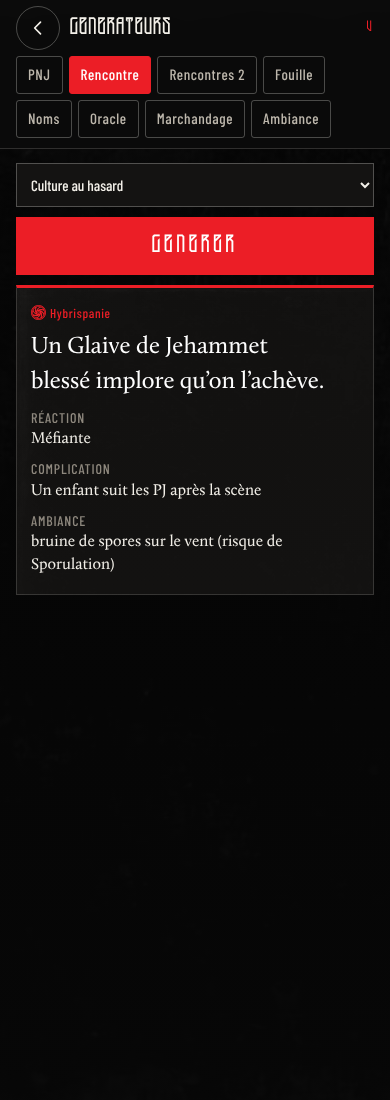
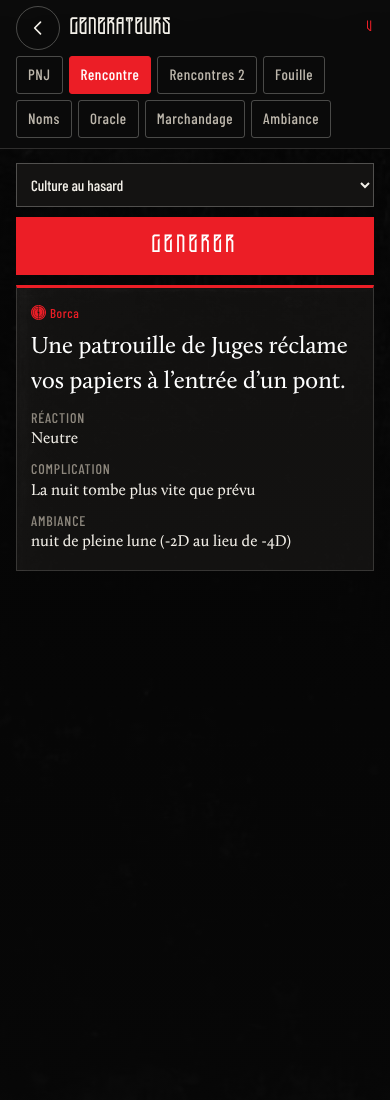
Générateurs : rencontres non conformes aux sources corrigées
Claude-Session: https://claude.ai/code/session_01LtkstC13MjDizu5DuuNSSV

Changed region(s): [[0.0615, 0.2782, 0.8923, 0.4018], [0.0615, 0.4327, 0.7385, 0.5255]]

diff --git a/sw.js b/sw.js
@@ -1,5 +1,5 @@
 // Codex du MJ – cache hors ligne. La version change à chaque mise à jour.
-const V="codex-202610272115";
+const V="codex-202610272120";
 const FILES=["./", "app.js", "assets/BG_BLACK_1.jpg", "assets/BG_BLACK_12.jpg", "assets/Calluna-Regular.otf", "assets/DEGENESIS-v0.1.ttf", "assets/camp/Benesato-armoiries.jpg", "assets/camp/abacus.jpg", "assets/camp/arrivee-lucatore.jpg", "assets/camp/attila.jpg", "assets/camp/avantposte-helvetique.jpg", "assets/camp/ba-atlantique.jpg", "assets/camp/ba-brest-maison.jpg", "assets/camp/ba-brest-port.jpg", "assets/camp/ba-brest-rue.jpg", "assets/camp/ba-britannia.jpg", "assets/camp/ba-carnac.jpg", "assets/camp/ba-eau-profonde.jpg", "assets/camp/ba-ganaress.jpg", "assets/camp/ba-gantelet.jpg", "assets/camp/ba-jour-ganaress.jpg", "assets/camp/ba-mont-saint-michel.jpg", "assets/camp/ba-morlaix.jpg", "assets/camp/ba-nantes.jpg", "assets/camp/ba-ouessant.jpg", "assets/camp/ba-parel.jpg", "assets/camp/ba-profondeurs.jpg", "assets/camp/ba-raffinerie.jpg", "assets/camp/ba-rennes.jpg", "assets/camp/ba-terre-pecheurs.jpg", "assets/camp/bargeist-vikal.jpg", "assets/camp/camp-romano.jpg", "assets/camp/chrono.jpg", "assets/camp/cloitre.jpg", "assets/camp/ennio-gala.jpg", "assets/camp/foret.jpg", "assets/camp/jdm-comptoir.jpg", "assets/camp/jdm-cour-argent.jpg", "assets/camp/jdm-fauxbourdons.jpg", "assets/camp/jdm-ferrallies.jpg", "assets/camp/jdm-marais.jpg", "assets/camp/jdm-palais-hamza.jpg", "assets/camp/jdm-port-lagagne.jpg", "assets/camp/jdm-route-resistance.jpg", "assets/camp/jdm-saint-chenil.jpg", "assets/camp/jdm-terres-putain.jpg", "assets/camp/jdm-tours.jpg", "assets/camp/lucatore.jpg", "assets/camp/moulin.jpg", "assets/camp/neva.jpg", "assets/camp/papachico-neva.jpg", "assets/camp/scirocco.jpg", "assets/camp/sigle-bargeist.jpg", "assets/camp/t-luz.png", "assets/camp/t-octet.png", "assets/camp/t-pavel.png", "assets/camp/t-vex.png", "assets/camp/tomlenoir.jpg", "assets/camp/vikal.jpg", "assets/dice/d1.png", "assets/dice/d2.png", "assets/dice/d3.png", "assets/dice/d4.png", "assets/dice/d5.png", "assets/dice/d6.png", "assets/fonts/barlow-condensed-latin-500-normal.woff2", "assets/fonts/barlow-condensed-latin-600-normal.woff2", "assets/fonts/barlow-condensed-latin-700-normal.woff2", "assets/logo-clean.svg", "assets/lore/b-amsumo.jpg", "assets/lore/b-discordance.jpg", "assets/lore/b-dormeur.jpg", "assets/lore/b-ganaress.jpg", "assets/lore/b-leviathan.jpg", "assets/lore/b-leviathaniques.jpg", "assets/lore/b-mammouths.jpg", "assets/lore/b-murnakir.jpg", "assets/lore/b-sporuleux.jpg", "assets/lore/b-tsar.jpg", "assets/lore/c-anabaptistes.jpg", "assets/lore/c-anubiens.jpg", "assets/lore/c-apocalyptiques.jpg", "assets/lore/c-blafards.jpg", "assets/lore/c-chroniqueurs.jpg", "assets/lore/c-clanistes.jpg", "assets/lore/c-ferrailleurs.jpg", "assets/lore/c-fleaux.jpg", "assets/lore/c-hellvetiques.jpg", "assets/lore/c-jehammetans.jpg", "assets/lore/c-juges.jpg", "assets/lore/c-neolibyens.jpg", "assets/lore/c-spitaliers.jpg", "assets/lore/k-adriani.jpg", "assets/lore/k-bordenoir.jpg", "assets/lore/k-britoni.jpg", "assets/lore/k-cafards.jpg", "assets/lore/k-corredores.jpg", "assets/lore/k-enemoi.jpg", "assets/lore/k-exaltiens.jpg", "assets/lore/k-flagellants.jpg", "assets/lore/k-garganti.jpg", "assets/lore/k-massai.jpg", "assets/lore/k-matadors.jpg", "assets/lore/k-pandoriens.jpg", "assets/lore/k-phosphorites.jpg", "assets/lore/k-pneumanciens.jpg", "assets/lore/k-resistance.jpg", "assets/lore/k-romano.jpg", "assets/lore/k-shabath.jpg", "assets/lore/k-storski.jpg", "assets/lore/k-stukov.jpg", "assets/lore/k-touloni.jpg", "assets/lore/k-usudi.jpg", "assets/lore/k-voivodules.jpg", "assets/lore/l-bassham.jpg", "assets/lore/l-bayonne.jpg", "assets/lore/l-black-atlantic.jpg", "assets/lore/l-brest.jpg", "assets/lore/l-chapelle-vicarent.jpg", "assets/lore/l-corpse.jpg", "assets/lore/l-entrepots.jpg", "assets/lore/l-lucatore.jpg", "assets/lore/l-mediterranee.jpg", "assets/lore/l-morlaix.jpg", "assets/lore/l-msm.jpg", "assets/lore/l-nantes.jpg", "assets/lore/l-nullpellia.jpg", "assets/lore/l-ouest-rhone.jpg", "assets/lore/l-plateformes.jpg", "assets/lore/l-port-lagagne.jpg", "assets/lore/l-pressoir.jpg", "assets/lore/l-rennes.jpg", "assets/lore/l-rhone.jpg", "assets/lore/l-romano-camp.jpg", "assets/lore/l-saint-brieuc.jpg", "assets/lore/l-saint-chenil.jpg", "assets/lore/l-stukov.jpg", "assets/lore/l-terres-putain.jpg", "assets/lore/l-toulon.jpg", "assets/lore/l-unya.jpg", "assets/lore/m-caire.jpg", "assets/lore/m-eshaton.jpg", "assets/lore/m-fractale.jpg", "assets/lore/m-spores.jpg", "assets/lore/m-ziggurat.jpg", "assets/lore/p-biokinesie-hero.jpg", "assets/lore/p-biokinesie.jpg", "assets/lore/p-dushani-hero.jpg", "assets/lore/p-dushani.jpg", "assets/lore/p-homo.jpg", "assets/lore/p-pheromanciens-hero.jpg", "assets/lore/p-pheromanciens.jpg", "assets/lore/p-pregnostiques-hero.jpg", "assets/lore/p-pregnostiques.jpg", "assets/lore/p-psychokinesie-hero.jpg", "assets/lore/p-psychokinesie.jpg", "assets/lore/p-psychovores.jpg", "assets/lore/p-sepsie.jpg", "assets/lore/r-balkhans.jpg", "assets/lore/r-borca.jpg", "assets/lore/r-cathedrale.jpg", "assets/lore/r-franka.jpg", "assets/lore/r-hellvetica.jpg", "assets/lore/r-hybrispanie.jpg", "assets/lore/r-justitienne.jpg", "assets/lore/r-pollen.jpg", "assets/lore/r-purgare.jpg", "assets/lore/r-tripol.jpg", "assets/lore/s-biokinese.png", "assets/lore/s-dushan.png", "assets/lore/s-pheromancie.png", "assets/lore/s-pregnosticisme.png", "assets/lore/s-psychokinese.png", "assets/lore/x-argyre-hero.jpg", "assets/lore/x-argyre.jpg", "assets/lore/x-aries.jpg", "assets/lore/x-aspera.jpg", "assets/lore/x-chernobog.jpg", "assets/lore/x-gusev.jpg", "assets/lore/x-triglav.jpg", "assets/pnj/ba-ampere.jpg", "assets/pnj/ba-arnika.jpg", "assets/pnj/ba-balor.jpg", "assets/pnj/ba-barringer.jpg", "assets/pnj/ba-bascule.jpg", "assets/pnj/ba-docteur-vega.jpg", "assets/pnj/ba-eris.jpg", "assets/pnj/ba-garlene.jpg", "assets/pnj/ba-helios.jpg", "assets/pnj/ba-ifrit.jpg", "assets/pnj/ba-imbali.jpg", "assets/pnj/ba-malinesse.jpg", "assets/pnj/ba-oppolus.jpg", "assets/pnj/ba-parel.jpg", "assets/pnj/ba-soufiane.jpg", "assets/pnj/ba-vicarent.jpg", "assets/pnj/ets-abacus.jpg", "assets/pnj/ets-barghest.jpg", "assets/pnj/ets-carmino-ferro.jpg", "assets/pnj/ets-ennio-benesato.jpg", "assets/pnj/ets-fernex-le-vigilant.jpg", "assets/pnj/ets-gala-lombardi.jpg", "assets/pnj/ets-leurre-5.jpg", "assets/pnj/ets-lucio-bastardo.jpg", "assets/pnj/ets-neva-l-emissaire-de-fer.jpg", "assets/pnj/ets-papa-chicco.jpg", "assets/pnj/ets-scirocco-le-pecheur.jpg", "assets/pnj/ets-tom-le-noir.jpg", "assets/pnj/ets-verena.jpg", "assets/pnj/ets-vikal.jpg", "assets/pnj/jdm-adonai.jpg", "assets/pnj/jdm-albatre.jpg", "assets/pnj/jdm-arcville.jpg", "assets/pnj/jdm-ayubu-le-limier.jpg", "assets/pnj/jdm-baptiste.jpg", "assets/pnj/jdm-callisto.jpg", "assets/pnj/jdm-crotale.jpg", "assets/pnj/jdm-deich.jpg", "assets/pnj/jdm-eisenhauer.jpg", "assets/pnj/jdm-facteur.jpg", "assets/pnj/jdm-hamza-abubakar-iii.jpg", "assets/pnj/jdm-hexell.jpg", "assets/pnj/jdm-hurlante.jpg", "assets/pnj/jdm-ivar.jpg", "assets/pnj/jdm-leurre-5.jpg", "assets/pnj/jdm-meridien.jpg", "assets/pnj/jdm-mirage.jpg", "assets/pnj/jdm-nephraim.jpg", "assets/pnj/jdm-nestor.jpg", "assets/pnj/jdm-opis-la-grenouille.jpg", "assets/pnj/jdm-orma.jpg", "assets/pnj/jdm-sabata.jpg", "assets/pnj/jdm-verican.jpg", "assets/pnj/jdm-wachsmann.jpg", "assets/pnj/jdm-zoe-morceau.jpg", "assets/pnj/jdm-zohra-consule-de-toulon.jpg", "assets/tarot/0.jpg", "assets/tarot/01.jpg", "assets/tarot/02.jpg", "assets/tarot/03.jpg", "assets/tarot/04.jpg", "assets/tarot/05.jpg", "assets/tarot/06.jpg", "assets/tarot/07.jpg", "assets/tarot/08.jpg", "assets/tarot/09.jpg", "assets/tarot/10.jpg", "assets/tarot/11.jpg", "assets/tarot/12.jpg", "assets/tarot/13.jpg", "assets/tarot/14.jpg", "assets/tarot/15.jpg", "assets/tarot/16.jpg", "assets/tarot/17.jpg", "assets/tarot/18.jpg", "assets/tarot/19.jpg", "assets/tarot/20.jpg", "assets/tarot/21.jpg", "assets/tarot/tarot-dos-01.jpg", "data/bazar.js", "data/campagne.js", "data/gen.js", "data/icons.js", "data/lore.js", "data/oracle.js", "data/potentiels.js", "data/regles.js", "data/survie-regles.js", "data/survie.js", "icons/icon-192.png", "icons/icon-512.png", "icons/maskable-512.png", "index.html", "manifest.webmanifest"];
 self.addEventListener("install",e=>{e.waitUntil(caches.open(V).then(c=>c.addAll(FILES)).then(()=>self.skipWaiting()))});
 self.addEventListener("activate",e=>{e.waitUntil(caches.keys().then(ks=>Promise.all(ks.filter(k=>k!==V).map(k=>caches.delete(k)))).then(()=>self.clients.claim()))});

diff --git a/data/gen.js b/data/gen.js
@@ -60,12 +60,12 @@ secret:["doit de l’argent à un Apocalyptique","a vendu un ami aux Juges","por
 rang:[{n:"Faible",va:"4-6",bs:"6",tr:"4"},{n:"Aguerri",va:"7-9",bs:"8",tr:"6"},{n:"Redoutable",va:"10-12",bs:"10",tr:"8"}],
 rencontres:{
  "Borca":["Une patrouille de Juges réclame vos papiers à l’entrée d’un pont.","Un convoi de Chroniqueurs escorté de mercenaires, qui ne s’arrête pour personne.","Des gendos rôdent autour d’un camp abandonné.","Un Ferrailleur blessé supplie qu’on l’aide à porter son butin.","Une colonne de Préservistes spitaliers brûle un champ de spores.","Des Clanistes du Protectorat troquent du grain contre des munitions.","Un vieil abri à demi effondré exhale un air tiède.","Des Cafards rôdent dans les égouts d’une ville en ruine."],
- "Franka":["Un village fortifié refuse d’ouvrir ses portes avant la nuit.","Des traces étranges dans la boue : quelque chose de lourd est passé.","Une sentinelle hellvétique vous observe depuis une tour.","Des réfugiés fuient vers le nord, persuadés qu’une faille s’est ouverte.","Un marché clandestin sous un pont effondré.","Un pèlerin anabaptiste prêche au bord de la route.","Un champ de spores mères pulse doucement dans la brume.","Un Pheromancien a laissé derrière lui des villageois souriants et vides."],
+ "Franka":["Un village fortifié refuse d’ouvrir ses portes avant la nuit.","Des traces étranges dans la boue : quelque chose de lourd est passé.","Une sentinelle hellvétique vous observe depuis une tour.","Des réfugiés fuient vers le nord, persuadés qu’une faille s’est ouverte.","Un marché clandestin sous un pont effondré.","Un pèlerin anabaptiste prêche au bord de la route.","Un champ de spores mères pulse doucement dans la brume.","Un Phéromancien a laissé derrière lui des villageois souriants et vides."],
  "Pollen":["Des mammouths migrent, guidés par des cavaliers garganti.","Un front sporique avance de quelques mètres par jour.","Une forêt fractale où les arbres semblent bouger quand on ne regarde pas.","Une famille de colons attend un convoi qui ne viendra pas.","Des chasseurs proposent de partager leur gibier contre des nouvelles.","Un fortin spitalier en ruine, ses défenseurs sporulés.","Une tempête électrique éclate sans prévenir.","Un Psychonaute observe le groupe depuis la lisière."],
  "Balkhans":["Des cavaliers jehammétans exigent un tribut.","Un voïvode recrute de force pour sa prochaine guerre.","Un bunker de Blafards, porte entrouverte.","Une procession anabaptiste chante en traversant la vallée.","Un champ de spores couvre les ruines d’une ville entière.","Des Apocalyptiques proposent de la Brûlure à prix cassé.","Un pont gardé par un clan qui réclame un péage absurde.","Un Dushani croise la route : l’air se met à vibrer."],
- "Hybrispanie":["Une embuscade de guérilleros dans un défilé.","Un camp anubien où l’on soigne étrangement les malades.","Des Fléaux en kom traversent la plaine à toute allure.","Une plaine de crânes où personne n’ose camper.","Des matadores défient le groupe pour l’honneur.","Une jungle trop épaisse : il faut se frayer un chemin à la machette.","Des Néolibyens chargent un dhow sur la côte.","Un Pheromancien hybrispanique a pris le contrôle d’un village."],
- "Purgare":["Des Anabaptistes flagellants en route pour Lucatore.","Un nid de Faucons rouillés domine la route.","Des épaves de navires échouées dans les déserts de scories.","Un clan local vend des huiles élyséennes de contrebande.","Une avant-garde hellvétique bloque un col alpin.","Des Apocalyptiques fêtent une nuit entière autour d’un feu.","Une chapelle abandonnée, l’autel encore humide de sang.","Un Barghest a laissé des traces de griffes sur les arbres."],
- "Afrika":["Une caravane néolibyenne propose des armes de qualité.","Des Fléaux masqués guettent une proie sur une crête.","Un surge tank traverse le désert dans un nuage de poussière.","Un marché de Tripol où tout s’achète, même les gens.","Des Anubiens réclament le corps d’un défunt pour leurs rites.","Une oasis empoisonnée, les animaux morts tout autour.","Un Psychovore a été aperçu près des puits.","Une tempête de sable force le groupe à s’abriter."]
+ "Hybrispanie":["Une embuscade de Guerreros dans un défilé.","Un camp anubien où l’on soigne étrangement les malades.","Des Fléaux en kom traversent la plaine à toute allure.","L’air vacille au bord de la Distorsion : personne n’ose camper ici.","Des Matadors annoncent une corrida… et comptent discrètement les gardes.","Une jungle trop épaisse : il faut se frayer un chemin à la machette.","Des Néolibyens chargent un dhow sur la côte.","Des Fléaux escortent une colonne d’esclaves vers Al-Andalus."],
+ "Purgare":["Des Anabaptistes flagellants en route pour Lucatore.","Un nid d’Apocalyptiques domine la route depuis une tour en ruine.","Des épaves de navires échouées dans les déserts de scories.","Un clan local vend des huiles élyséennes de contrebande.","Une avant-garde hellvétique bloque un col alpin.","Des Apocalyptiques fêtent une nuit entière autour d’un feu.","Une chapelle abandonnée, l’autel encore humide de sang.","Des asticots envahissent un village : on murmure le nom de Barghest."],
+ "Afrika":["Une caravane néolibyenne propose des armes de qualité.","Des Fléaux masqués guettent une proie sur une crête.","Un autobastion traverse le désert dans un nuage de poussière.","Un marché de Tripol où tout s’achète, même les gens.","Des Anubiens réclament le corps d’un défunt pour leurs rites.","Une oasis empoisonnée, les animaux morts tout autour.","Des Psychovores ont poussé près des puits pendant la nuit.","Une tempête de sable force le groupe à s’abriter."]
 },
 ruines:["bunker effondré","station-service rongée par la rouille","entrepôt dont le toit s’est écroulé","usine à moitié ensevelie","hôpital pillé depuis des siècles","parking souterrain inondé","tour d’habitation penchée","gare et ses wagons éventrés","centre commercial envahi par la végétation","école dont les murs portent encore des dessins"],
 trouvailles:["boîte de conserve intacte (contenu inconnu)","outil électrique sans batterie","lot de câbles en cuivre","appareil photo ancien","boîtier électronique scellé","lunettes de soleil","manuel technique illisible","pièces de moteur","jouet en plastique","casque de chantier","cartouches d’un calibre oublié","bouteille de verre colorée","montre mécanique","filtre à eau usagé","téléphone portable mort","carte routière du monde d’avant"],
